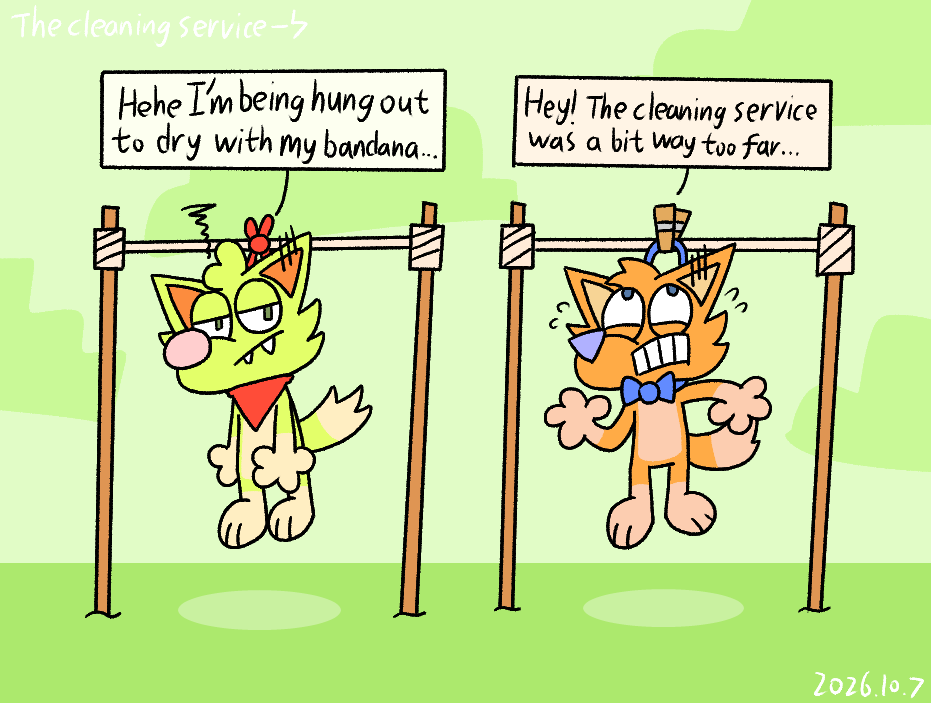
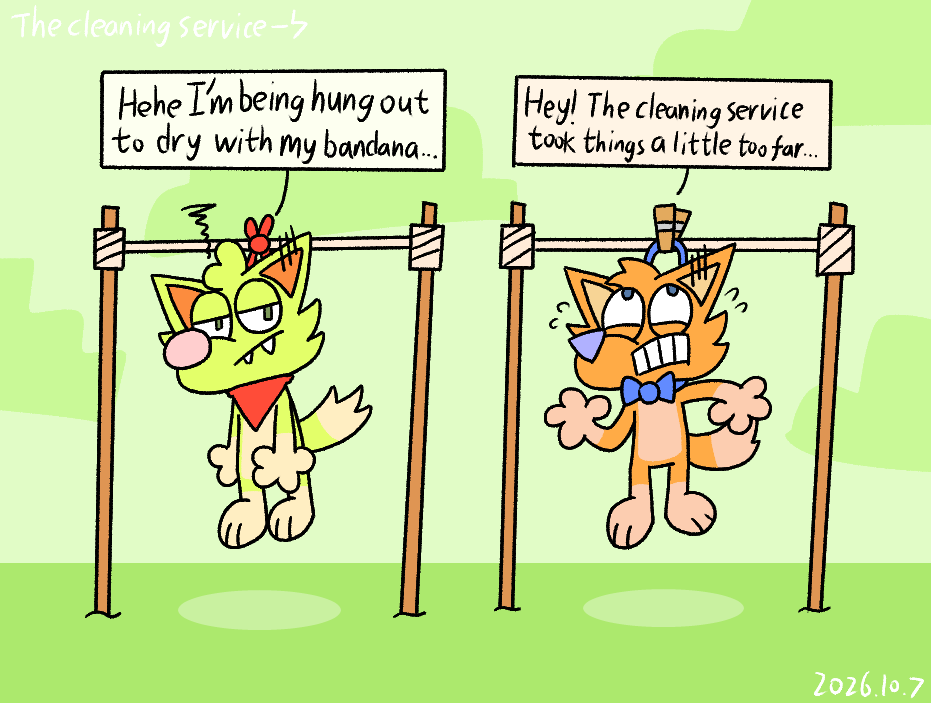
site fix #2 2026.10.8

Changed region(s): [[0.5607, 0.1195, 0.8722, 0.239]]

diff --git a/src/styles/content-pages.css b/src/styles/content-pages.css
@@ -953,6 +953,10 @@ body:has(.characters-shell) .character-modal-close {
     width: min(900px, calc(100vw - 48px));
   }
 
+  .questions-shell {
+    width: min(860px, calc(100vw - 64px));
+  }
+
   .character-modal-panel {
     width: min(820px, calc(100vw - 48px));
   }
